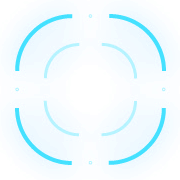
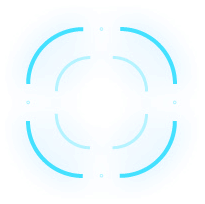
Fixed camera tracking movement so that when the window is resized, the camera rotation still works. Also fixed the crosshairs a little from having "sharp" edges in its halo.

diff --git a/src/dodgeball_engine.cpp b/src/dodgeball_engine.cpp
@@ -314,10 +314,11 @@ bool DodgeballEngine::OnEvent(const irr::SEvent& event) {
 
 void DodgeballEngine::trackCamera(int x, int y) {
     /* rotate camera... */
-    int centerx = x - (m_windowWidth/2);
-    int centery = y - (m_windowHeight/2);
-    double xproportion = centerx / (m_windowWidth/2.0);
-    double yproportion = centery / (m_windowHeight/2.0);
+    irr::core::rect<irr::s32> windowSize = m_driver->getViewPort();
+    int centerx = x - (windowSize.getWidth()/2);
+    int centery = y - (windowSize.getHeight()/2);
+    double xproportion = centerx / (windowSize.getWidth()/2.0);
+    double yproportion = centery / (windowSize.getHeight()/2.0);
     irr::core::vector3df forward(
         -sin(xproportion*M_PI/2.0), 0.0, -cos(xproportion*M_PI/2.0));
     forward = forward.normalize();
